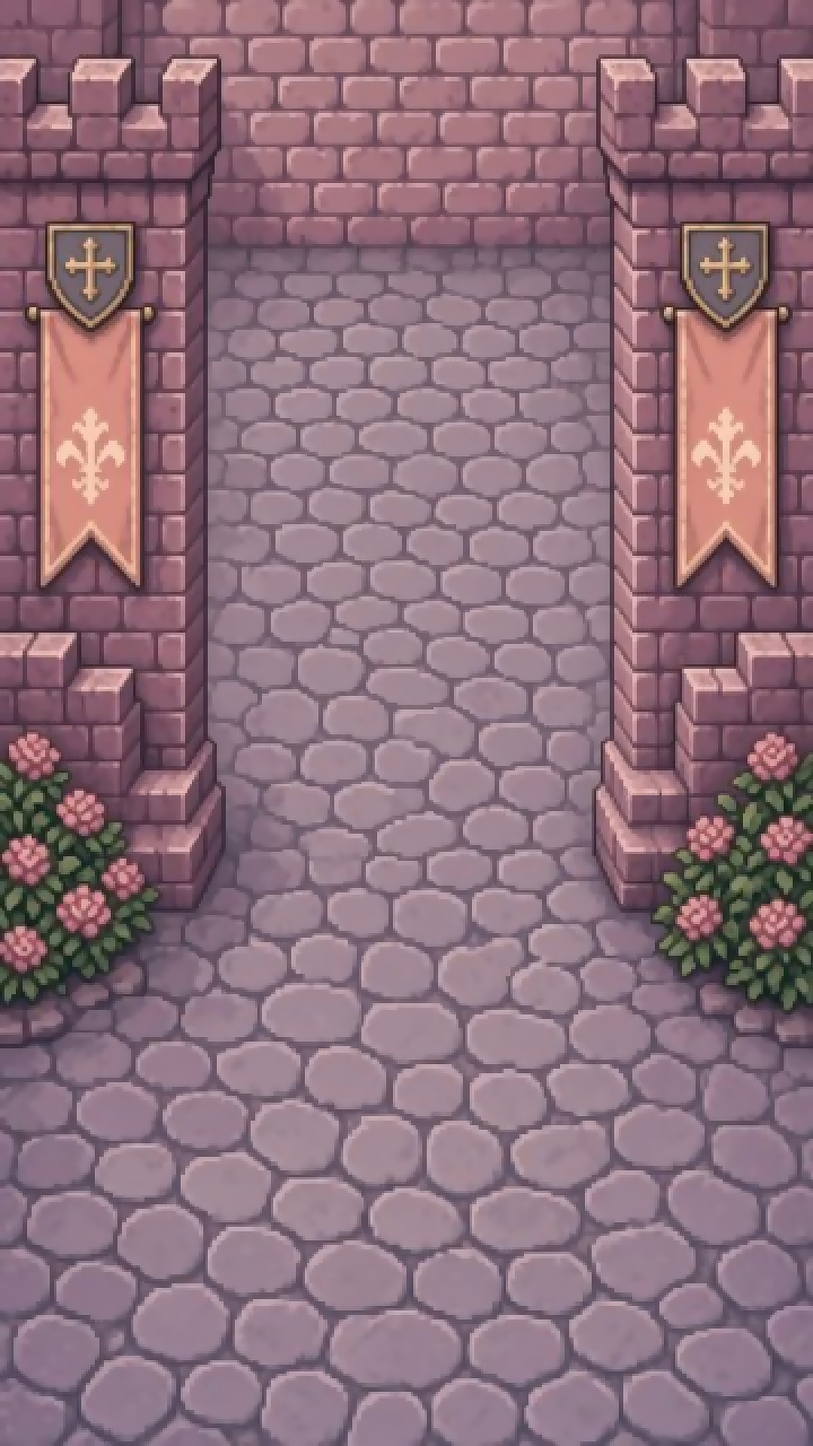
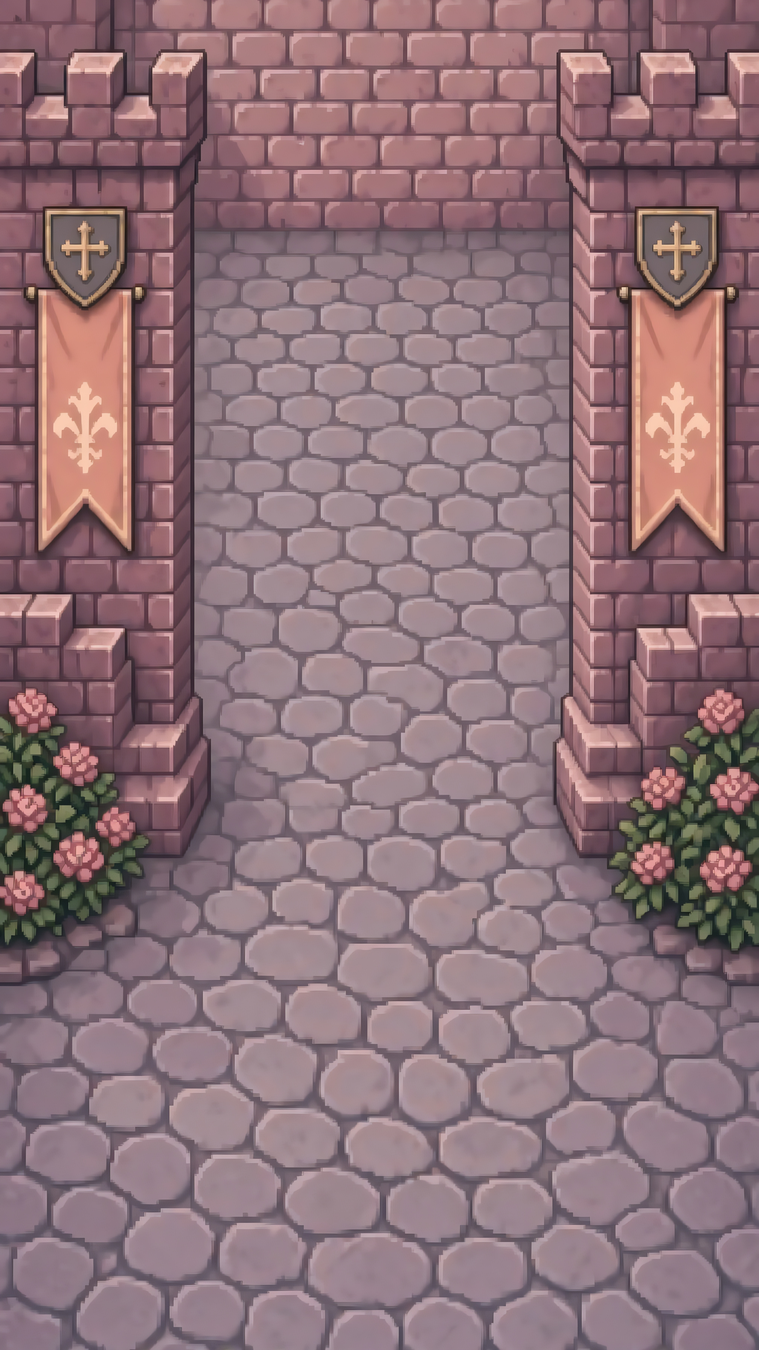
fix(worlds): regenerate sharp HD backgrounds
The last pass only stretched soft frames, so every route still looked
blurry. These are freshly drawn scenes, detail-upscaled to 2016x3584.

diff --git a/src/components/pulau-rantai-map.tsx b/src/components/pulau-rantai-map.tsx
@@ -232,7 +232,7 @@ export function PulauRantaiMap({
             >
               <img
                 className="art"
-                src={`/worlds/${unit.id}.jpg?v=hd1`}
+                src={`/worlds/${unit.id}.jpg?v=hd2`}
                 alt=""
                 decoding="async"
                 onError={(e) => {
